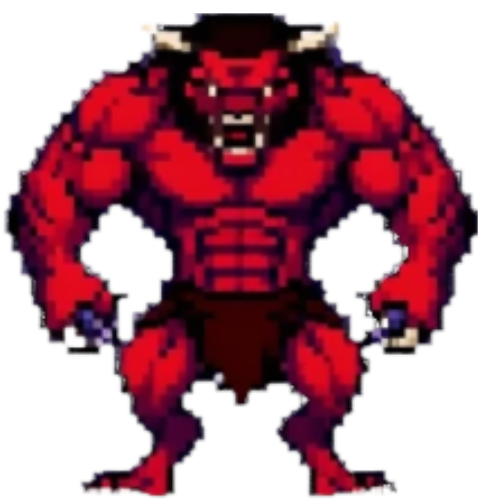
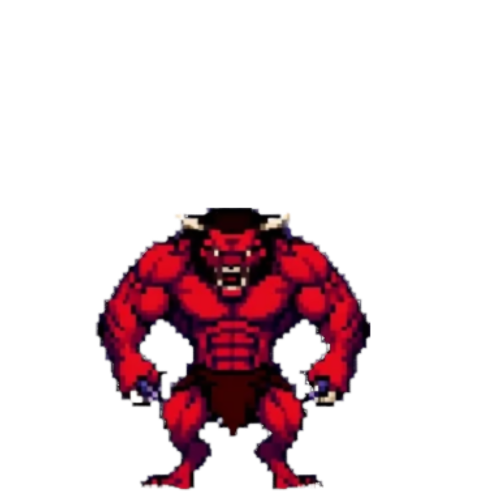
added skeleton and demon monsters to the game, added them to the hell level

diff --git a/Raycaster-FPS-Game/raycasting.js b/Raycaster-FPS-Game/raycasting.js
@@ -73,18 +73,18 @@ let game = {
                 [2, 0, 0, 0, 0, 0, 13, 0, 0, 0, 0, 0, 0, 0, 0, 0, 0, 0, 0, 2],
                 [2, 2, 2, 2, 0, 0, 0, 0, 0, 0, 0, 2, 2, 0, 0, 0, 0, 2, 0, 2],
                 [2, 0, 0, 0, 0, 0, 0, 0, 0, 0, 0, 2, 2, 2, 0, 2, 0, 2, 2, 2],
+                [2, 0, 0, 0, 0, 0, 0, 19, 0, 0, 0, 2, 0, 0, 0, 2, 0, 0, 0, 2],
                 [2, 0, 0, 0, 0, 0, 0, 0, 0, 0, 0, 2, 0, 0, 0, 2, 0, 0, 0, 2],
-                [2, 0, 0, 0, 0, 0, 0, 0, 0, 0, 0, 2, 0, 0, 0, 2, 0, 0, 0, 2],
-                [2, 0, 0, 0, 0, 0, 0, 0, 0, 0, 0, 2, 0, 0, 13, 2, 0, 0, 0, 2],
-                [2, 0, 0, 0, 0, 0, 0, 0, 0, 0, 0, 2, 0, 0, 0, 2, 0, 12, 0, 2],
+                [2, 0, 0, 0, 19, 0, 0, 0, 0, 0, 0, 2, 0, 0, 13, 2, 0, 0, 0, 2],
+                [2, 0, 0, 0, 0, 0, 0, 19, 0, 0, 0, 2, 0, 0, 0, 2, 0, 12, 0, 2],
                 [2, 0, 0, 0, 0, 0, 2, 0, 2, 0, 2, 2, 2, 2, 2, 2, 0, 0, 0, 2],
-                [2, 0, 13, 0, 0, 0, 2, 0, 2, 0, 0, 0, 2, 0, 0, 0, 0, 0, 0, 2],
+                [2, 0, 13, 0, 0, 0, 2, 0, 2, 0, 0, 0, 2, 0, 0, 0, 19, 0, 0, 2],
                 [2, 2, 0, 0, 0, 2, 2, 0, 2, 0, 0, 3, 2, 3, 13, 0, 0, 0, 0, 2],
                 [2, 2, 2, 2, 2, 2, 2, 0, 2, 2, 0, 2, 2, 2, 2, 2, 0, 2, 2, 2],
                 [2, 2, 0, 0, 0, 0, 0, 0, 0, 2, 0, 0, 0, 0, 0, 0, 0, 0, 0, 2],
                 [2, 0, 13, 0, 0, 0, 0, 0, 0, 2, 0, 0, 0, 0, 13, 0, 0, 0, 0, 2],
                 [2, 0, 0, 0, 0, 0, 0, 0, 0, 2, 0, 13, 0, 0, 0, 0, 0, 0, 0, 2],
-                [2, 3, 0, 0, 0, 0, 13, 0, 2, 2, 0, 0, 0, 0, 0, 0, 0, 0, 3, 2],
+                [2, 3, 0, 0, 0, 0, 13, 0, 2, 2, 0, 0, 0, 19, 0, 0, 0, 0, 18, 2],
                 [2, 2, 2, 2, 2, 2, 2, 2, 2, 2, 2, 2, 2, 2, 2, 2, 2, 2, 2, 2]
             ],
             unlocked: true,
@@ -765,6 +765,42 @@ function loadLevel(levelIdx) {
                         data: null
                     };
                     game.monsters.push(minotaur);
+                    game.monsterIdCounter++;
+                    break;
+                case 18:
+                    const demon = {
+                        id: `monster_${game.monsterIdCounter}`,
+                        type: 'demon',
+                        skin: 'demon-sprite',
+                        audio: 'imp',
+                        x: j,
+                        y: i,
+                        health: 450,
+                        isDead: false,
+                        width: 512,
+                        height: 512,
+                        active: false,
+                        data: null
+                    };
+                    game.monsters.push(demon);
+                    game.monsterIdCounter++;
+                    break;
+                case 19:
+                    const skeleton = {
+                        id: `monster_${game.monsterIdCounter}`,
+                        type: 'skeleton',
+                        skin: 'skeleton-sprite',
+                        audio: 'skeleton',
+                        x: j,
+                        y: i,
+                        health: 25,
+                        isDead: false,
+                        width: 512,
+                        height: 512,
+                        active: false,
+                        data: null
+                    };
+                    game.monsters.push(skeleton);
                     game.monsterIdCounter++;
                     break;
                 default:

diff --git a/Raycaster-FPS-Game/raycasting.html b/Raycaster-FPS-Game/raycasting.html
@@ -77,6 +77,8 @@
     <img id="crusader-sprite" src="img\monsters\crusader.png" style="display: none;">
     <img id="king-sprite" src="img\monsters\king.png" style="display: none;">
     <img id="minotaur-sprite" src="img\monsters\minotaur.png" style="display: none;">
+    <img id="demon-sprite" src="img\monsters\demon.png" style="display: none;">
+    <img id="skeleton-sprite" src="img\monsters\skeleton.png" style="display: none;">
     <!-- Environment Sounds -->
     <audio id="pickup-sound" src="audio\environment\pickup.mp3" preload="auto"></audio>
     <!-- Weapon Sounds -->
@@ -108,6 +110,10 @@
     <audio id="minotaur-pain-2" src="audio\monster\minotaur-pain-2.mp3" preload="auto"></audio>
     <audio id="minotaur-pain-3" src="audio\monster\minotaur-pain-3.mp3" preload="auto"></audio>
     <audio id="minotaur-death" src="audio\monster\minotaur-death.mp3" preload="auto"></audio>
+    <audio id="skeleton-pain-1" src="audio\monster\skeleton-pain-1.mp3" preload="auto"></audio>
+    <audio id="skeleton-pain-2" src="audio\monster\skeleton-pain-2.mp3" preload="auto"></audio>
+    <audio id="skeleton-pain-3" src="audio\monster\skeleton-pain-3.mp3" preload="auto"></audio>
+    <audio id="skeleton-death" src="audio\monster\skeleton-death.mp3" preload="auto"></audio>
     <audio id="yeti-laugh" src="audio\monster\yetilaugh.mp3" preload="auto"></audio>
 </body>
 <script src="raycasting.js"></script>

diff --git a/README.md b/README.md
@@ -44,6 +44,8 @@ git clone https://github.com/KylerCondran/Raycaster-FPS-Game.git
   <li>Bears</li>
   <li>Yetis</li>
   <li>Minotaurs</li>
+  <li>Demons</li>
+  <li>Skeletons</li>
   <li>Crusaders</li>
   <li>King</li>
 </ul>
